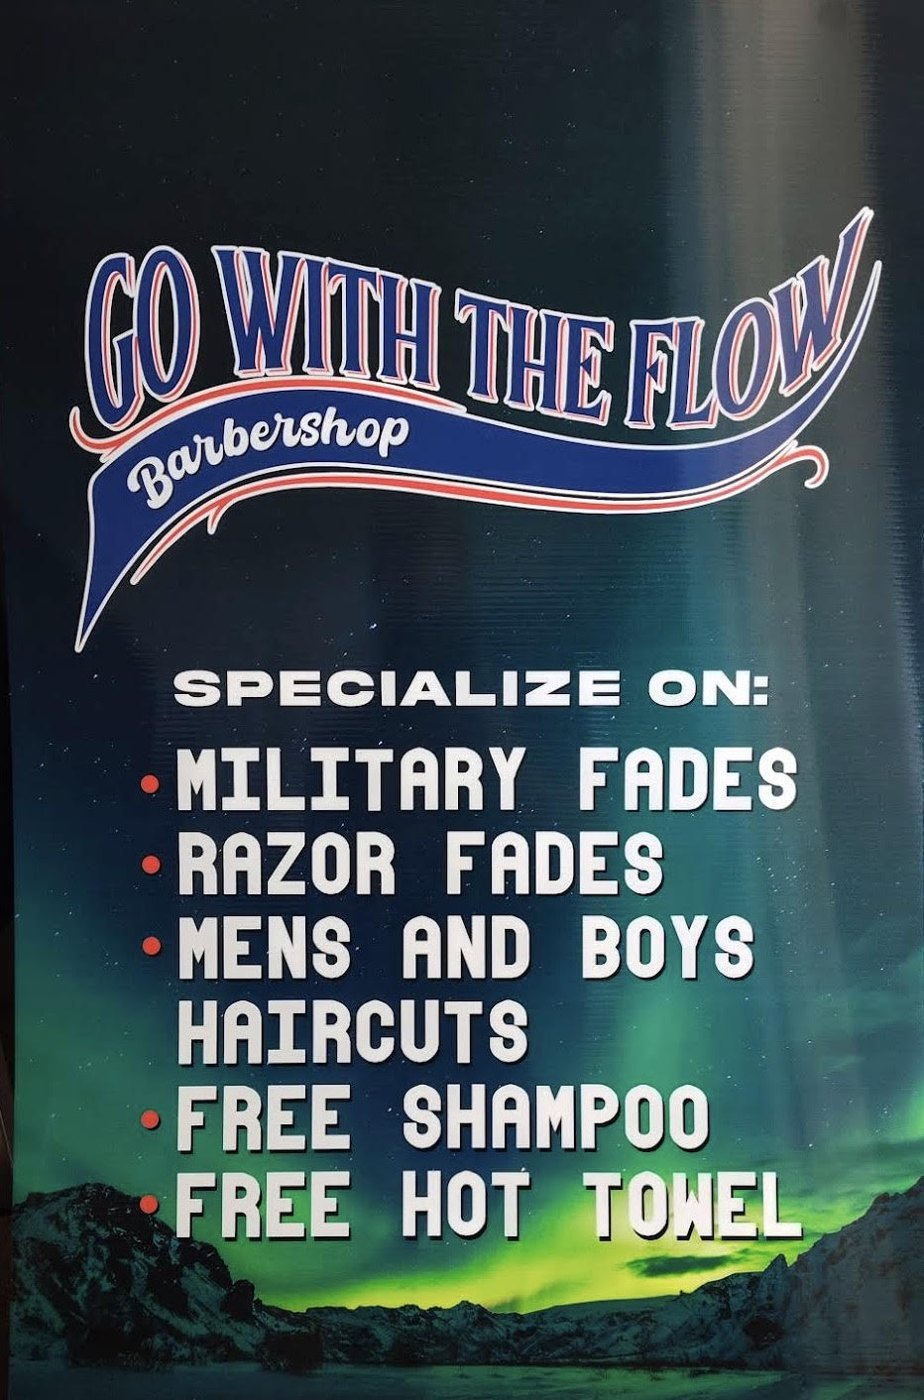
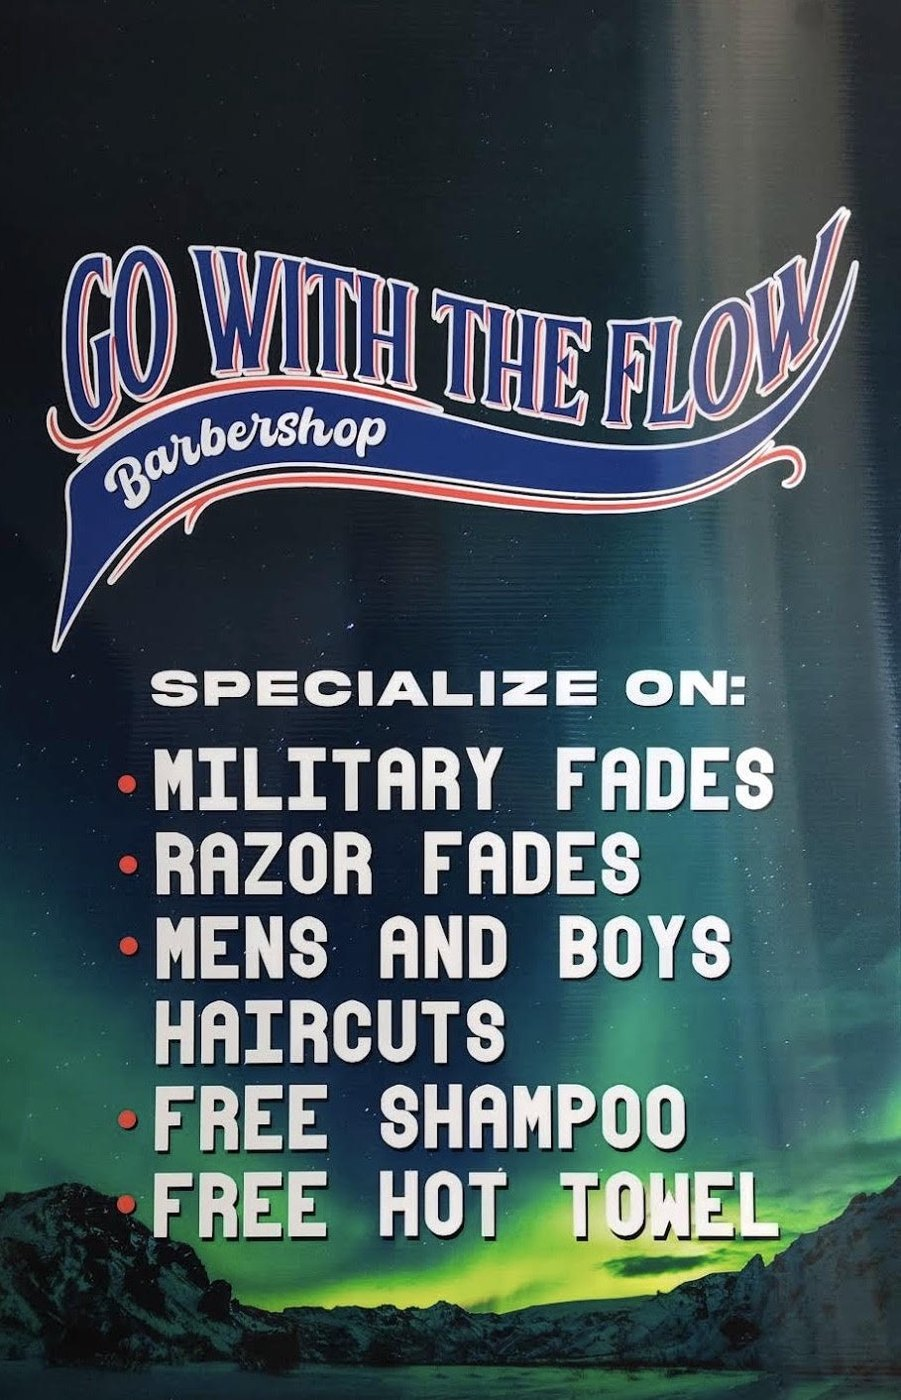
Move Est. badge off the sign text; cropped sign; rename hero image
- Badge now hangs off the bottom-left corner of the sign, smaller
- Updated theshop.jpg with the cropped version
- hero.jpg renamed to hero-shop.jpg so cached copies of the old photo
  are never served

Changed region(s): [[0.0, 0.4607, 0.8701, 0.9829], [0.0311, 0.1536, 0.9634, 0.4607]]

diff --git a/index.html b/index.html
@@ -21,7 +21,7 @@
 <meta property="og:description" content="Fades, tapers, lineups, beard work and hot towel shaves in downtown Oceanside. Walk-ins welcome. Book online.">
 <meta property="og:type" content="website">
 <meta property="og:url" content="https://gowiththeflowbarbershop.com/">
-<meta property="og:image" content="https://gowiththeflowbarbershop.com/assets/img/hero.jpg">
+<meta property="og:image" content="https://gowiththeflowbarbershop.com/assets/img/hero-shop.jpg">
 <meta name="twitter:card" content="summary_large_image">
 
 <!-- Structured data so Google shows hours, phone and rating with the listing.
@@ -31,7 +31,7 @@
   "@context": "https://schema.org",
   "@type": "HairSalon",
   "name": "Go With The Flow Barbershop",
-  "image": "https://gowiththeflowbarbershop.com/assets/img/hero.jpg",
+  "image": "https://gowiththeflowbarbershop.com/assets/img/hero-shop.jpg",
   "url": "https://gowiththeflowbarbershop.com/",
   "telephone": "+1-760-575-1268",
   "priceRange": "$$",
@@ -96,7 +96,7 @@
 
 <!-- ============ HERO ============ -->
 <section class="hero">
-  <img class="hero-img" src="assets/img/hero.jpg" alt="" width="2000" height="1328" fetchpriority="high">
+  <img class="hero-img" src="assets/img/hero-shop.jpg" alt="" width="2000" height="1328" fetchpriority="high">
   <div class="hero-scrim" aria-hidden="true"></div>
 
   <div class="hero-inner wrap">
@@ -192,7 +192,7 @@
 <section class="section section-dark" id="about">
   <div class="wrap about">
     <div class="about-media reveal">
-      <img src="assets/img/theshop.jpg" alt="Go With The Flow Barbershop sign: military fades, razor fades, men's and boys' haircuts, free shampoo, free hot towel" width="924" height="1400" loading="lazy">
+      <img src="assets/img/theshop.jpg" alt="Go With The Flow Barbershop sign: military fades, razor fades, men's and boys' haircuts, free shampoo, free hot towel" width="901" height="1400" loading="lazy">
       <div class="about-badge" aria-hidden="true">
         <span>Est.</span><strong>Oceanside</strong>
       </div>

diff --git a/css/styles.css b/css/styles.css
@@ -313,13 +313,13 @@ h2.h3 { font-size: clamp(1.7rem, 3vw, 2.2rem); }
 .about-media { position: relative; }
 .about-media img { border-radius: var(--radius-lg); box-shadow: var(--shadow); width: 100%; }
 .about-badge {
-  position: absolute; right: -1rem; bottom: 2rem; background: var(--gold); color: var(--black);
-  padding: .9rem 1.2rem; border-radius: 8px; transform: rotate(-3deg);
+  position: absolute; left: 1.25rem; bottom: -1.1rem; background: var(--gold); color: var(--black);
+  padding: .75rem 1rem; border-radius: 8px; transform: rotate(-3deg);
   font-family: var(--font-display); text-transform: uppercase; line-height: 1;
   box-shadow: 0 10px 30px rgba(0,0,0,.35);
 }
-.about-badge span { display: block; font-size: .7rem; letter-spacing: .2em; font-weight: 700; margin-bottom: .25rem; }
-.about-badge strong { font-size: 1.1rem; font-weight: 900; letter-spacing: .04em; }
+.about-badge span { display: block; font-size: .62rem; letter-spacing: .2em; font-weight: 700; margin-bottom: .2rem; }
+.about-badge strong { font-size: .95rem; font-weight: 900; letter-spacing: .04em; }
 
 .why { list-style: none; margin: 0 0 2rem; padding: 0; counter-reset: why; display: grid; gap: 1.1rem; }
 .why li {
@@ -336,8 +336,7 @@ h2.h3 { font-size: clamp(1.7rem, 3vw, 2.2rem); }
 
 @media (max-width: 860px) {
   .about { grid-template-columns: 1fr; }
-  .about-media { max-width: 480px; }
-  .about-badge { right: .5rem; }
+  .about-media { max-width: 480px; margin-bottom: 1rem; }
 }
 
 /* ---------- Gallery ---------- */

diff --git a/README.md b/README.md
@@ -49,7 +49,7 @@ Profile. Booking links go to the shop's Booksy page. Instagram is @gowiththeflow
 EW_rqoSdDes); no attribution required. Swap in real shop photos when you have them.
 
 The photos in `assets/img/` are stock placeholders. Swap them for real shop photos with the
-same filenames and the site updates with no code change. `hero.jpg` should be landscape (about 3:2); `about-1.jpg` and `service-beard-grooming.jpg`
+same filenames and the site updates with no code change. `hero-shop.jpg` should be landscape (about 3:2); `about-1.jpg` and `service-beard-grooming.jpg`
 work best in portrait.
 
 ## Privacy
